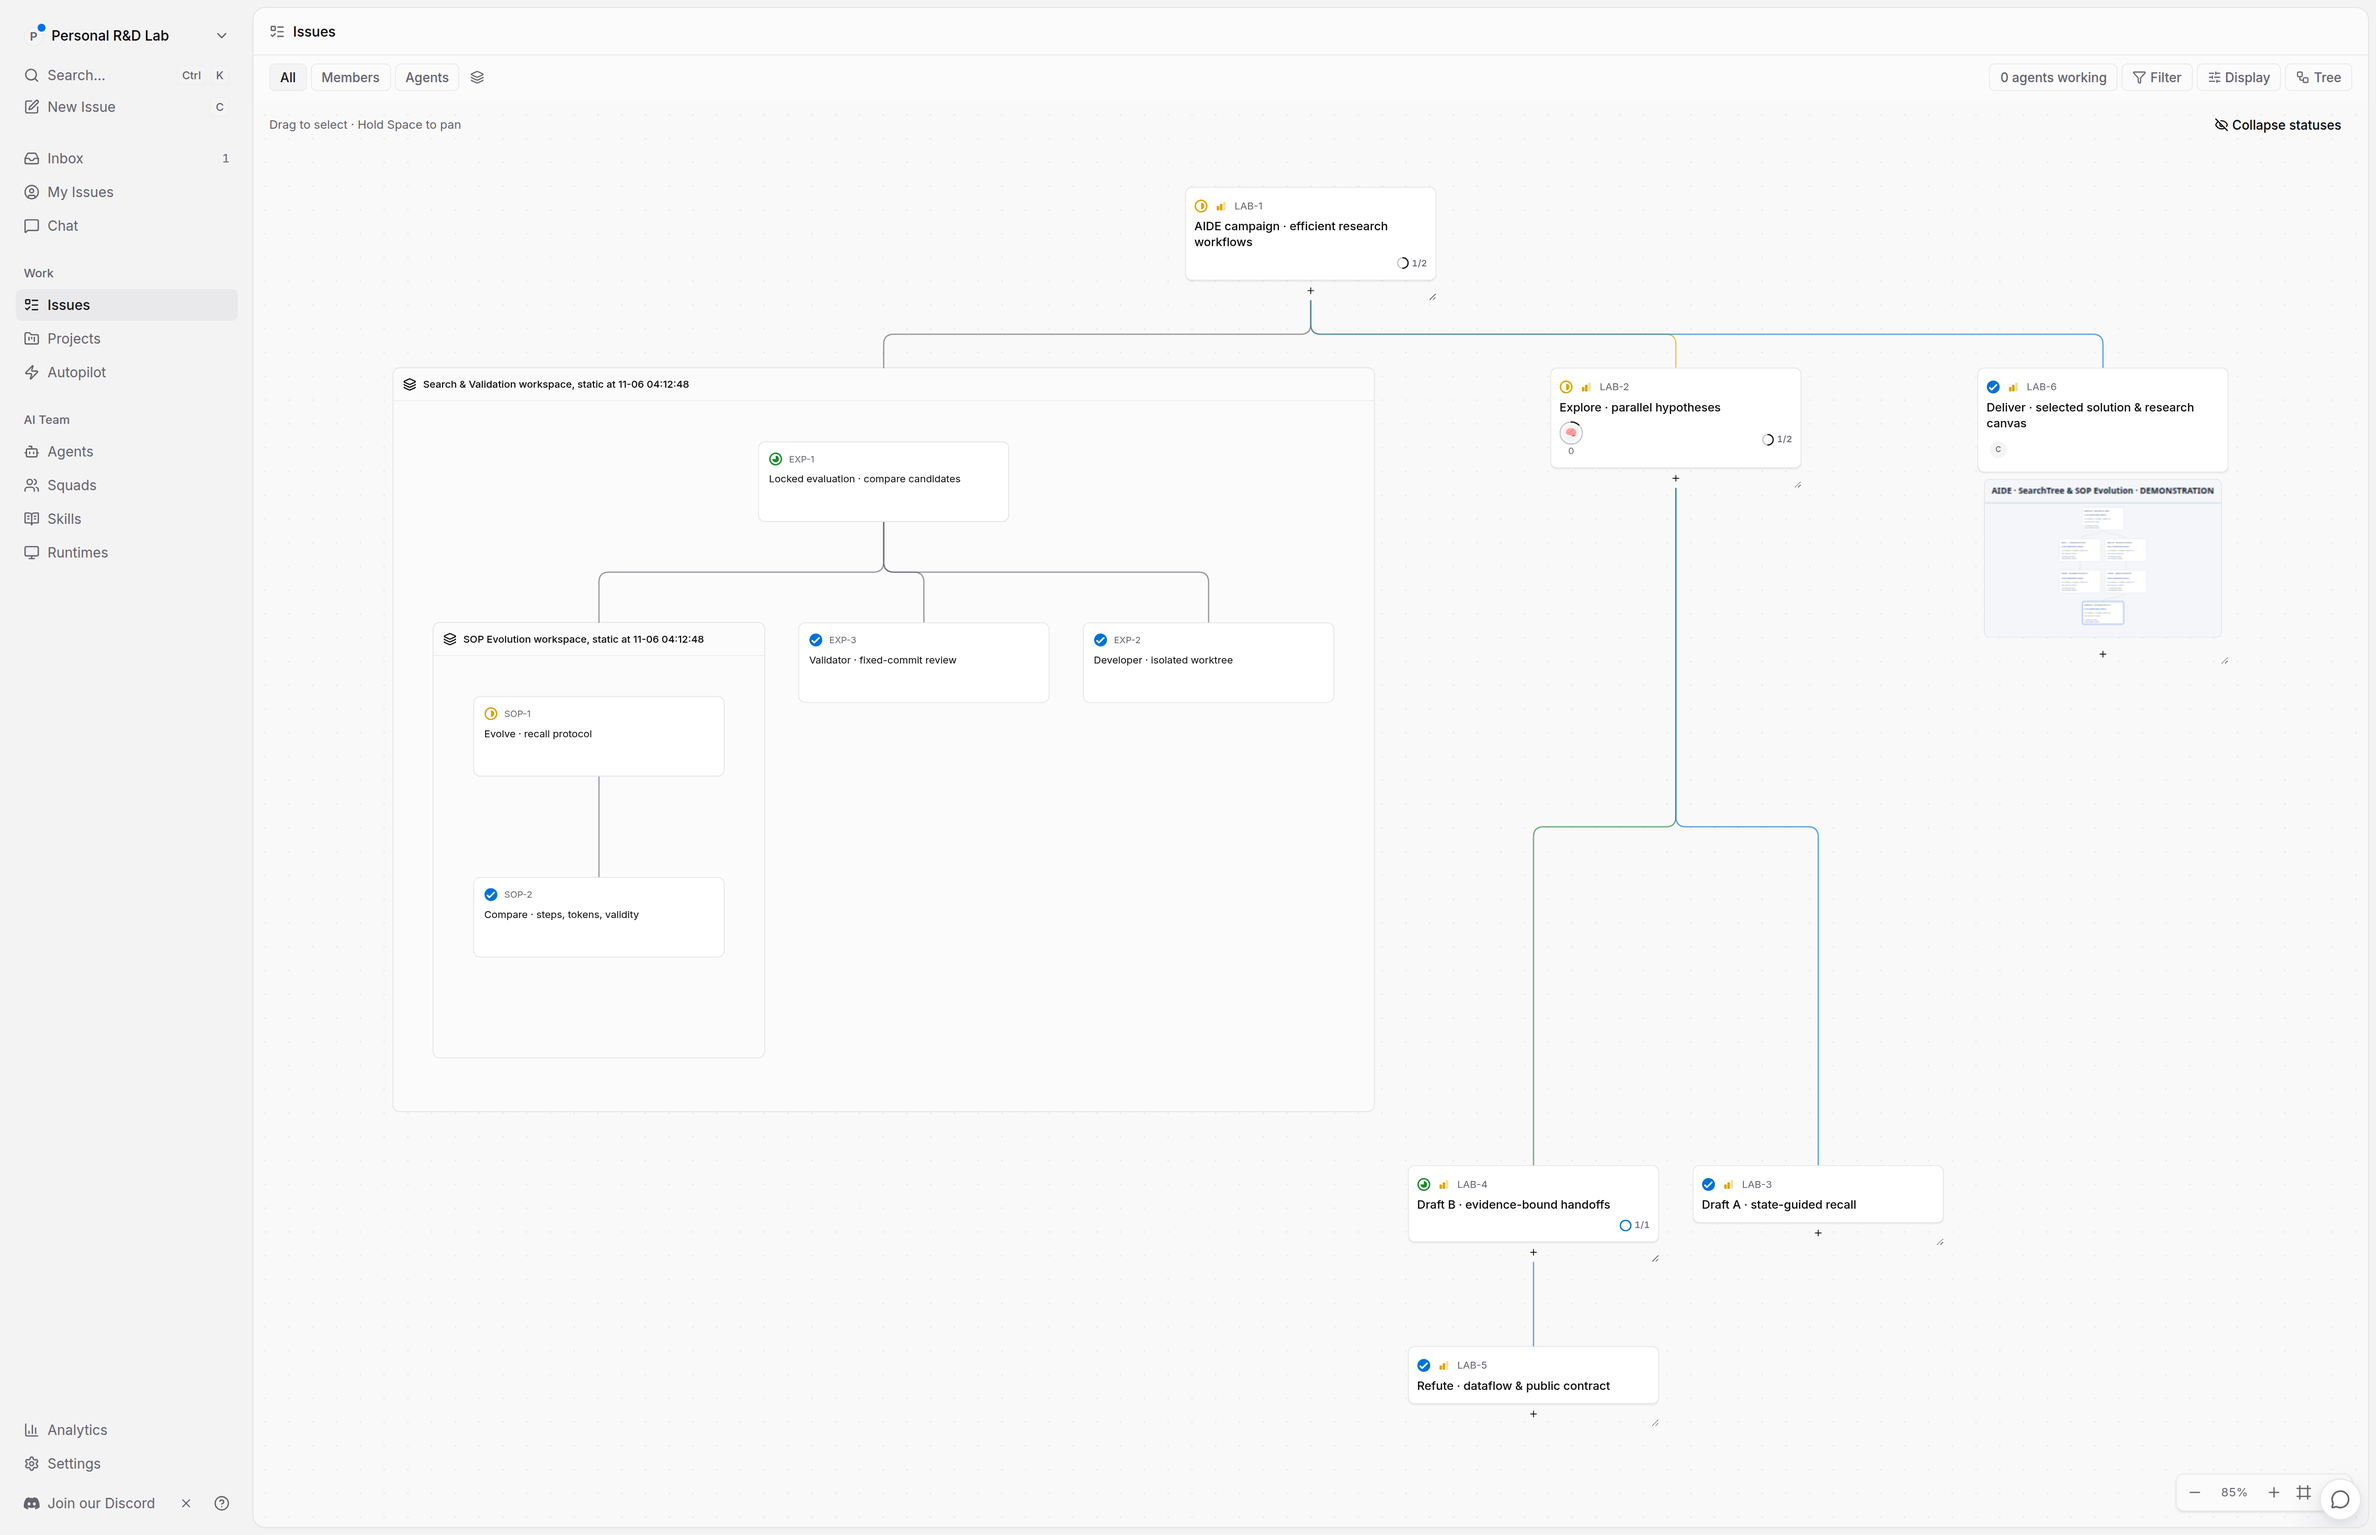
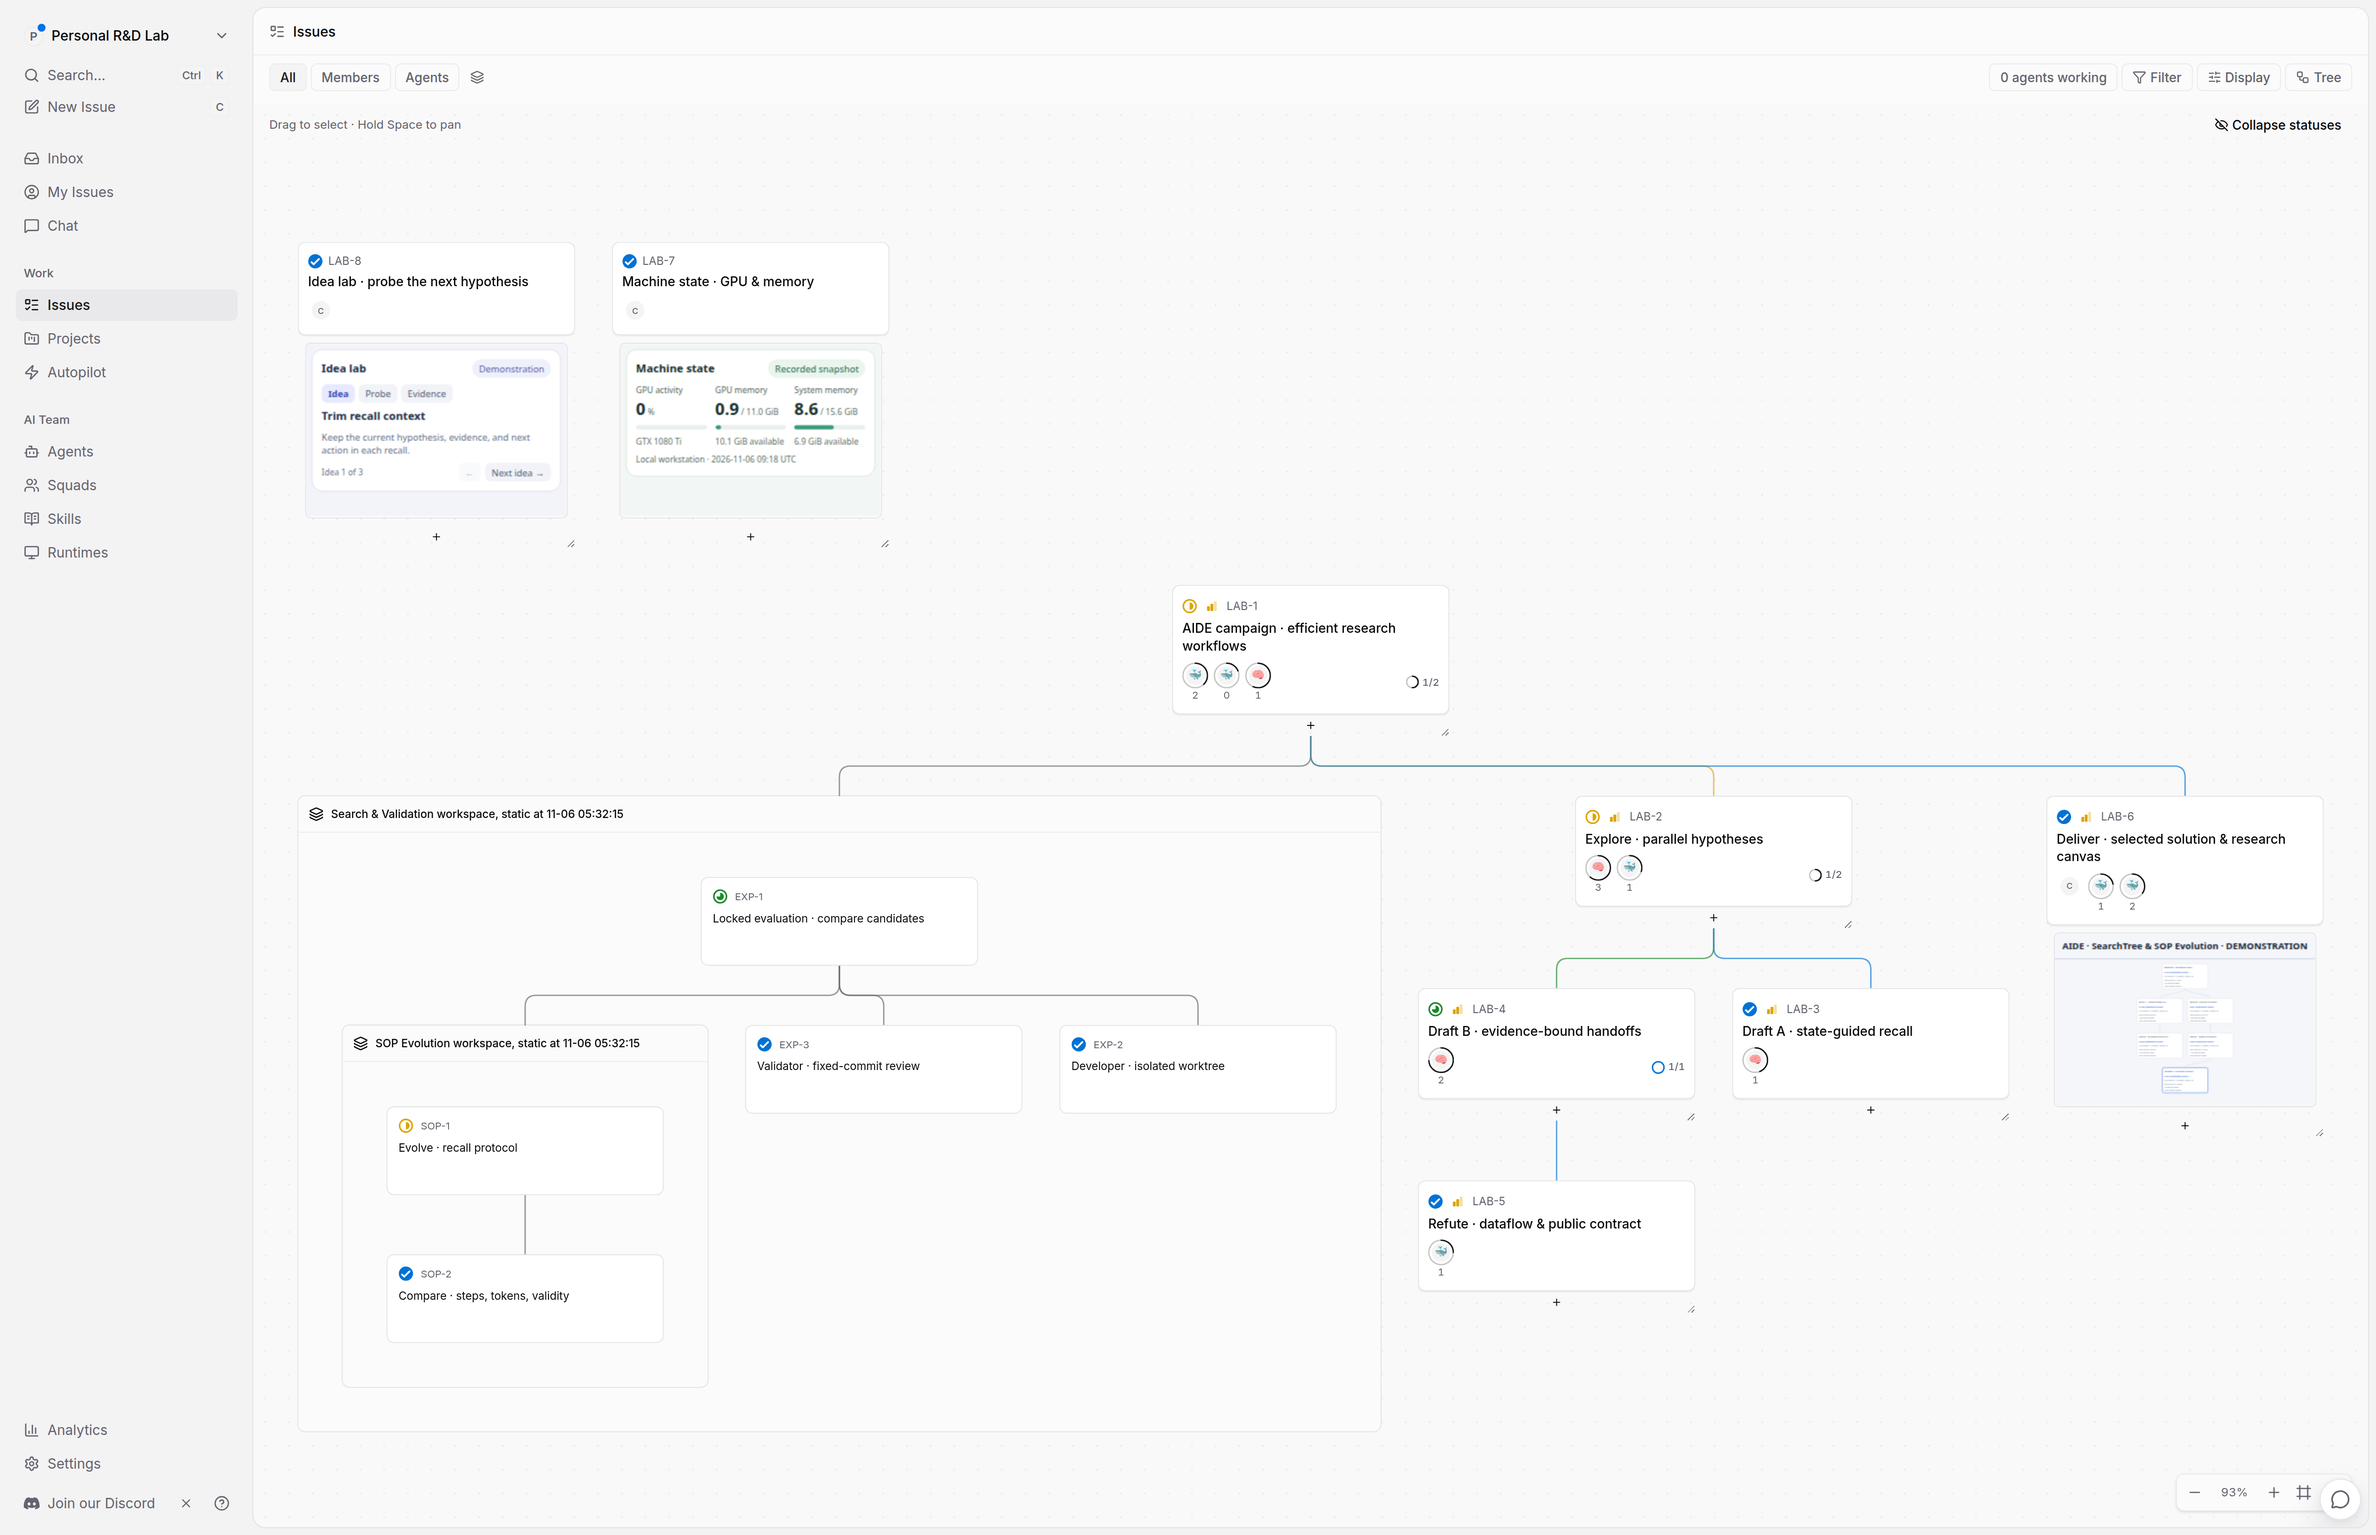
docs: add resource and idea widgets to research showcase

diff --git a/docs/assets/showcase/idea-probe.html b/docs/assets/showcase/idea-probe.html
@@ -1,0 +1,52 @@
+<!doctype html>
+<html lang="en">
+<meta charset="utf-8">
+<meta name="viewport" content="width=device-width,initial-scale=1">
+<title>Idea lab · probing workflow</title>
+<style>
+:root{font:13px/1.4 system-ui,sans-serif;color:#25304a;background:#f3f4fa;color-scheme:light}
+*{box-sizing:border-box}body{margin:0;padding:12px}.panel{max-width:640px;margin:auto;background:#fff;border:1px solid #dfe3ef;border-radius:12px;padding:14px}
+header,footer{display:flex;align-items:center;justify-content:space-between;gap:8px}h1{font-size:15px;margin:0}.tag{font-size:10px;background:#eef0fb;color:#6263a5;padding:3px 7px;border-radius:12px}
+[role=tablist]{display:flex;gap:4px;margin:12px 0}button{font:inherit;border:0;border-radius:6px;padding:5px 9px;cursor:pointer;background:#f2f3f8;color:#515e79}button[aria-selected=true]{background:#e7eaff;color:#354ab4;font-weight:600}button:hover{filter:brightness(.96)}button:focus-visible{outline:2px solid #536cd3;outline-offset:2px}button:disabled{opacity:.4;cursor:default}
+h2{font-size:16px;margin:0 0 6px}p{margin:0;color:#66718a;min-height:40px}footer{margin-top:12px;color:#66718a;font-size:11px}.actions{display:flex;gap:5px}
+@media(max-width:420px){body{padding:6px}.panel{padding:10px}h1{font-size:12px}[role=tablist]{margin:7px 0}button{font-size:10px;padding:3px 7px}h2{font-size:12px}p{font-size:10px;min-height:28px}footer{font-size:9px;margin-top:7px}}
+</style>
+<main class="panel">
+<header><h1>Idea lab</h1><span class="tag">Demonstration</span></header>
+<div role="tablist" aria-label="Idea probing">
+<button id="idea-tab" role="tab" aria-selected="true" aria-controls="panel" data-tab="idea">Idea</button>
+<button id="probe-tab" role="tab" aria-selected="false" aria-controls="panel" tabindex="-1" data-tab="probe">Probe</button>
+<button id="evidence-tab" role="tab" aria-selected="false" aria-controls="panel" tabindex="-1" data-tab="evidence">Evidence</button>
+</div>
+<section id="panel" role="tabpanel" aria-labelledby="idea-tab" aria-live="polite"><h2 id="title"></h2><p id="detail"></p></section>
+<footer><span id="iteration"></span><div class="actions"><button id="previous" aria-label="Previous idea">←</button><button id="next" aria-label="Next idea">Next idea →</button></div></footer>
+</main>
+<script>
+const ideas = [
+  {title:'Trim recall context',idea:'Keep the current hypothesis, evidence, and next action in each recall.',probe:'Compare concise recalls with full history under the same task budget.',evidence:'Awaiting evaluation. Record validity, tokens, and execution steps.'},
+  {title:'Challenge the strongest branch',idea:'Ask one reviewer to refute the selected solution at its fixed commit.',probe:'Bound the review to dataflow and the public output contract.',evidence:'Awaiting review. Keep a finding tied to the candidate commit.'},
+  {title:'Reuse the accepted checkpoint',idea:'Start the next refinement from the strongest accepted result.',probe:'Compare checkpoint reuse with a fresh draft using the same evaluator.',evidence:'Awaiting comparison. Retain the baseline if the new branch loses.'}
+];
+let index=0, tab='idea';
+const tabs=[...document.querySelectorAll('[role=tab]')];
+function render(){
+  document.getElementById('title').textContent=ideas[index].title;
+  document.getElementById('detail').textContent=ideas[index][tab];
+  document.getElementById('iteration').textContent=`Idea ${index+1} of ${ideas.length}`;
+  document.getElementById('previous').disabled=index===0;
+  document.getElementById('next').disabled=index===ideas.length-1;
+  document.getElementById('panel').setAttribute('aria-labelledby',`${tab}-tab`);
+  tabs.forEach(button=>{const active=button.dataset.tab===tab;button.setAttribute('aria-selected',String(active));button.tabIndex=active?0:-1});
+}
+tabs.forEach((button,i)=>{
+  button.addEventListener('click',()=>{tab=button.dataset.tab;render()});
+  button.addEventListener('keydown',event=>{
+    const target=event.key==='ArrowRight'?(i+1)%tabs.length:event.key==='ArrowLeft'?(i+tabs.length-1)%tabs.length:event.key==='Home'?0:event.key==='End'?tabs.length-1:null;
+    if(target===null)return;event.preventDefault();tabs[target].click();tabs[target].focus();
+  });
+});
+document.getElementById('previous').addEventListener('click',()=>{index--;render()});
+document.getElementById('next').addEventListener('click',()=>{index++;render()});
+render();
+</script>
+</html>

diff --git a/docs/assets/showcase/machine-state.html b/docs/assets/showcase/machine-state.html
@@ -1,0 +1,23 @@
+<!doctype html>
+<html lang="en">
+<meta charset="utf-8">
+<meta name="viewport" content="width=device-width,initial-scale=1">
+<title>Machine state · resource snapshot</title>
+<style>
+:root{font:13px/1.4 system-ui,sans-serif;color:#18312d;background:#f2f7f5;color-scheme:light}
+*{box-sizing:border-box}body{margin:0;padding:12px}.panel{max-width:740px;margin:auto;background:#fff;border:1px solid #dbe6e0;border-radius:12px;padding:14px}
+header{display:flex;justify-content:space-between;align-items:center;gap:8px;margin-bottom:14px}h1{font-size:15px;margin:0}.tag{font-size:10px;color:#276b55;background:#e9f5ed;border-radius:12px;padding:3px 7px}
+.metrics{display:grid;grid-template-columns:repeat(3,1fr);gap:18px}.label{font-size:11px;color:#52685e}.value{font-size:24px;line-height:1.4;font-weight:650;font-variant-numeric:tabular-nums}.unit{font-size:12px;font-weight:400;color:#60736b}
+.bar{height:5px;background:#eaf0ec;border-radius:5px;overflow:hidden;margin:5px 0 7px}.fill{height:100%;background:#369b78;border-radius:5px}.detail{font-size:10px;color:#60736b}footer{margin-top:14px;font-size:10px;color:#60736b}
+@media(max-width:420px){body{padding:6px}.panel{padding:10px}header{margin-bottom:8px}h1{font-size:12px}.metrics{gap:9px}.value{font-size:18px}.unit{font-size:9px}.label,.detail,footer{font-size:9px}footer{margin-top:8px}}
+</style>
+<main class="panel">
+<header><h1>Machine state</h1><span class="tag">Recorded snapshot</span></header>
+<div class="metrics">
+<section aria-label="GPU activity"><div class="label">GPU activity</div><div class="value">0<span class="unit"> %</span></div><div class="bar"><div class="fill" style="width:0%"></div></div><div class="detail">GTX 1080 Ti</div></section>
+<section aria-label="GPU memory"><div class="label">GPU memory</div><div class="value">0.9<span class="unit"> / 11.0 GiB</span></div><div class="bar"><div class="fill" style="width:8.6%"></div></div><div class="detail">10.1 GiB available</div></section>
+<section aria-label="System memory"><div class="label">System memory</div><div class="value">8.6<span class="unit"> / 15.6 GiB</span></div><div class="bar"><div class="fill" style="width:55.4%"></div></div><div class="detail">6.9 GiB available</div></section>
+</div>
+<footer>Local workstation · 2026-11-06 09:18 UTC</footer>
+</main>
+</html>

diff --git a/README.md b/README.md
@@ -4,15 +4,17 @@
 
 *Compute is abundant; human attention is the bottleneck. **Bring Everything Inside.** Instead of scattering experiments across fragile scripts, disconnected machines, and noisy terminal tabs, organize parallel exploration, nested sub-workspaces, and evolving SOPs inside one R&D harness.*
 
-> [!IMPORTANT]
-> **Core Philosophy: Bring Everything Inside.**
-> Multica-RSI brings projects, 26+ agent CLIs, and distributed compute into a shared research workspace. Combine **nested experiment workspaces**, **up to 50 concurrent agent tasks**, **Recursive Self-Improvement (RSI)**, and **Gradual Context Reveal** to spend your attention on results. Use the AIDE sandboxed development workflow when experiments need a separate, locked evaluator.
-
 <p align="center">
   <img src="docs/assets/showcase/tree-panel-subworkspaces-and-html.png" alt="Live Multica-RSI UI with a curated research campaign, nested sub-workspace snapshots and an inline AIDE HTML delivery" width="100%" />
 </p>
 
 *Curated demonstration in the live application. Campaign states and AIDE scores illustrate the workflow.*
+
+The same canvas holds a GPU/memory snapshot and an interactive idea-probing panel alongside experiment trees. Open an HTML artifact to inspect resources or move between Idea, Probe, and Evidence tabs.
+
+| Machine state | Idea probing |
+| --- | --- |
+| ![GPU and system memory snapshot](docs/assets/showcase/machine-state.png) | ![Interactive idea-probing panel](docs/assets/showcase/idea-probe.png) |
 
 ## 🧠 Gradual Context Reveal: Engineered for Human Attention
 
